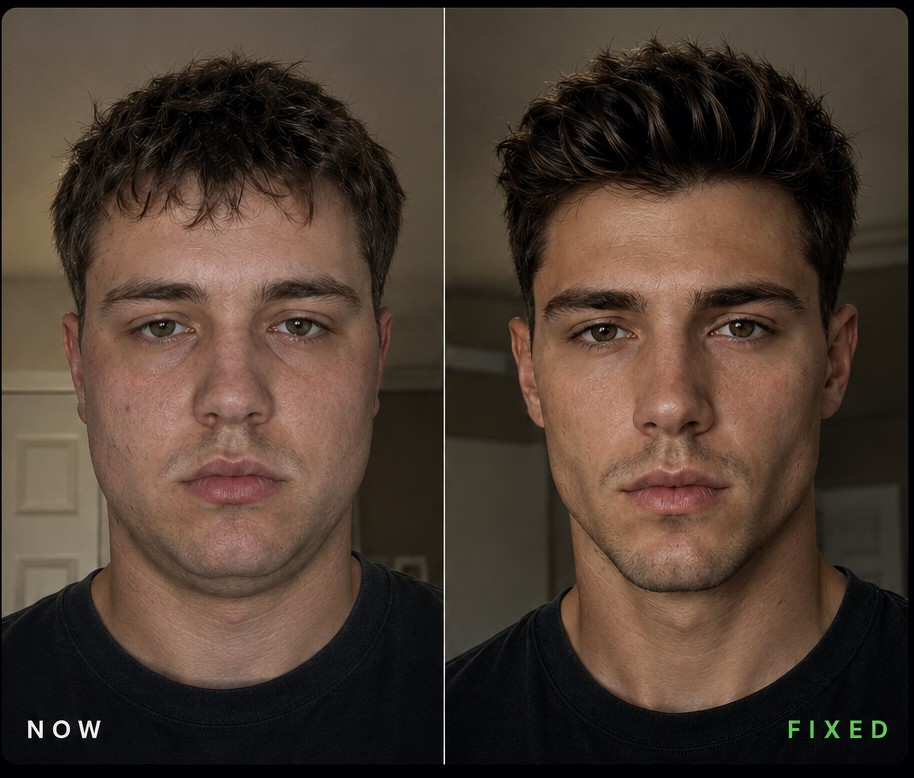
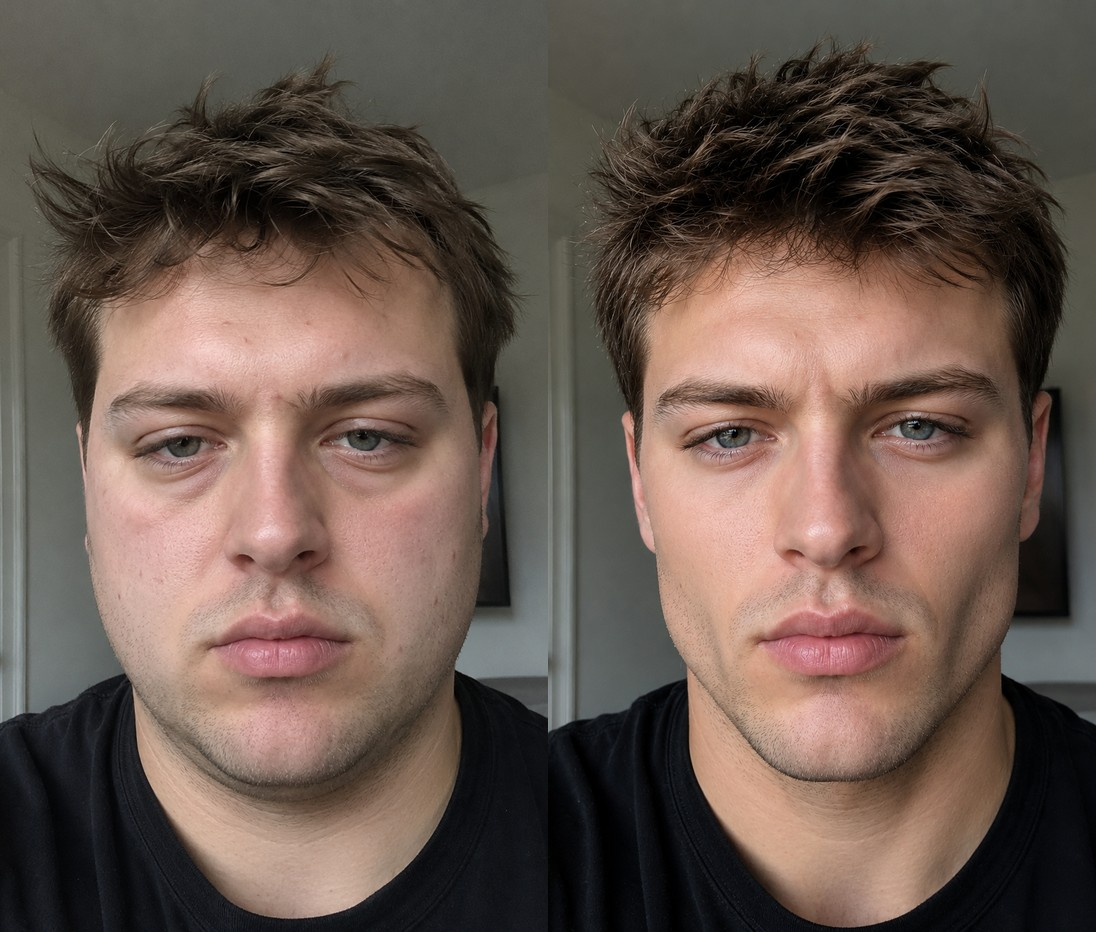
Real art drop 1: before/after pair, food plate, gua sha + wired heroes
Assets (processed from bro's originals, big + crisp):
- assets/marketing/before.jpg / after.jpg (1080x1440) — the bloated /
  drained faces. Light up the identity fork, fullscreen compare, and
  everywhere the pair is referenced.
- assets/marketing/beforeafter.jpg (1096x932) — composited split,
  bloated LEFT / drained RIGHT, seam dead-centre so the paywall hero's
  violet beam lands exactly on the transition. Also feeds the
  onboarding shock-stat card.
- assets/onboarding/welcome_food.jpg + welcome_routine.jpg (1080x1080).

Onboarding welcome carousel:
- _WelcomeSlide gains an optional hero widget that replaces the static
  image when set.
- Slide 1 hero = interactive BeforeAfterSlider starting at EXACTLY 50%
  (bro: "a slide that starts exactly half way") — drag to reveal the
  drained face. Sub-copy now invites the drag.
- Slide 2 hero = _FoodScanHero: the real plate with scanner callout
  lines pointing at cucumber / avocado / salmon, each with its sodium
  mg chip, glowing target dots, and a "PLATE SODIUM ~180 MG - LOW"
  verdict pill. New _CalloutLinePainter draws the lines.
- Slide 3 uses the real gua sha photo automatically (same filename).

assets/onboarding/README.md updated: received vs still-wanted
(welcome_scan bust, gender_male/female pngs).

Bump to 1.0.0+27 (kBuildTag v1.0.0+27).

Claude-Session: https://claude.ai/code/session_01C9EuYvg8RfgYGv5eTqCxGG

diff --git a/lib/screens/onboarding/funnel/onboarding_funnel_screen.dart b/lib/screens/onboarding/funnel/onboarding_funnel_screen.dart
@@ -141,10 +141,14 @@ class _OnboardingFunnelScreenState extends State<OnboardingFunnelScreen> {
         image: 'assets/onboarding/welcome_scan.jpg',
         headTop: 'Wake Up',
         headBottom: 'Less Puffy',
-        sub: 'Track puffiness. See real progress.',
+        sub: 'Drag the line. Same face — just drained.',
         cta: 'Continue',
         onBack: _back,
         onNext: _next,
+        // Bro: "put the first one in onboarding as a slide that starts
+        // exactly half way." Interactive before/after slider, divider
+        // opening at 50/50 — bloated left, drained right.
+        hero: const BeforeAfterSlider(aspectRatio: 4 / 5),
       ),
       _WelcomeSlide(
         index: here(),
@@ -158,6 +162,9 @@ class _OnboardingFunnelScreenState extends State<OnboardingFunnelScreen> {
         cta: 'Continue',
         onBack: _back,
         onNext: _next,
+        // The plate with scanner callouts — lines pointing at each food
+        // with its sodium read, verdict chip at the bottom.
+        hero: const _FoodScanHero(),
       ),
       _WelcomeSlide(
         index: here(),
@@ -308,6 +315,11 @@ class _WelcomeSlide extends StatelessWidget {
   final IconData icon;
   final String label, image, headTop, headBottom, sub, cta;
   final VoidCallback onBack, onNext;
+  /// Optional custom hero widget. When set it replaces the static
+  /// Image.asset + label chip entirely (the hero owns its own
+  /// overlays) — used for the interactive before/after slider on
+  /// slide 1 and the sodium-callout food scan on slide 2.
+  final Widget? hero;
   const _WelcomeSlide({
     required this.index,
     required this.showProgress,
@@ -320,6 +332,7 @@ class _WelcomeSlide extends StatelessWidget {
     required this.cta,
     required this.onBack,
     required this.onNext,
+    this.hero,
   });
 
   @override
@@ -363,7 +376,7 @@ class _WelcomeSlide extends StatelessWidget {
                     color: Onb.primary.withValues(alpha: 0.4), width: 1),
                   borderRadius: BorderRadius.circular(26),
                 ),
-                child: Stack(
+                child: hero ?? Stack(
                   fit: StackFit.expand,
                   children: [
                     Image.asset(image, fit: BoxFit.cover,
@@ -409,6 +422,142 @@ class _WelcomeSlide extends StatelessWidget {
       ),
     );
   }
+}
+
+/// The Food-Analysis hero — the real plate photo with scanner-style
+/// callout lines pointing at each food and its sodium read, plus a
+/// plate verdict chip at the bottom. Sells "we see the sodium before
+/// it puffs you up" in one glance.
+class _FoodScanHero extends StatelessWidget {
+  const _FoodScanHero();
+
+  // Chip anchor + food-dot positions as fractions of the hero box
+  // (tuned to the cover-cropped 4:5 view of welcome_food.jpg).
+  static const _callouts =
+      <({Offset chip, Offset dot, bool right, String label, String value})>[
+    (chip: Offset(0.05, 0.06), dot: Offset(0.25, 0.25), right: false,
+     label: 'CUCUMBER', value: '2 MG'),
+    (chip: Offset(0.95, 0.16), dot: Offset(0.82, 0.38), right: true,
+     label: 'AVOCADO', value: '7 MG'),
+    (chip: Offset(0.05, 0.62), dot: Offset(0.47, 0.50), right: false,
+     label: 'SALMON', value: '75 MG'),
+  ];
+
+  @override
+  Widget build(BuildContext context) {
+    return LayoutBuilder(builder: (context, c) {
+      final w = c.maxWidth, h = c.maxHeight;
+      return Stack(
+        fit: StackFit.expand,
+        children: [
+          Image.asset('assets/onboarding/welcome_food.jpg',
+            fit: BoxFit.cover,
+            errorBuilder: (_, __, ___) => const OnbImagePlaceholder(
+              icon: Icons.restaurant_rounded, caption: 'Food Analysis')),
+          // Slight darkening so the white callouts always read.
+          DecoratedBox(
+            decoration: BoxDecoration(
+              color: Colors.black.withValues(alpha: 0.12))),
+          CustomPaint(
+            painter: _CalloutLinePainter(lines: [
+              for (final k in _callouts)
+                (
+                  Offset(k.chip.dx * w + (k.right ? -6 : 6),
+                         k.chip.dy * h + 14),
+                  Offset(k.dot.dx * w, k.dot.dy * h),
+                ),
+            ]),
+          ),
+          for (final k in _callouts)
+            Positioned(
+              left:  k.right ? null : k.chip.dx * w,
+              right: k.right ? (1 - k.chip.dx) * w : null,
+              top:   k.chip.dy * h,
+              child: _chip(k.label, k.value),
+            ),
+          // Plate verdict.
+          Positioned(
+            left: 0, right: 0, bottom: 12,
+            child: Center(
+              child: Container(
+                padding: const EdgeInsets.symmetric(
+                    horizontal: 14, vertical: 8),
+                decoration: BoxDecoration(
+                  color: Colors.black.withValues(alpha: 0.72),
+                  borderRadius: BorderRadius.circular(100),
+                  border: Border.all(
+                    color: Onb.success.withValues(alpha: 0.6), width: 1),
+                ),
+                child: Row(
+                  mainAxisSize: MainAxisSize.min,
+                  children: [
+                    const Icon(Icons.water_drop_rounded,
+                      color: Onb.success, size: 14),
+                    const SizedBox(width: 6),
+                    Text('PLATE SODIUM ~180 MG · LOW',
+                      style: GoogleFonts.inter(
+                        color: Onb.success,
+                        fontSize: 11, letterSpacing: 1.1,
+                        fontWeight: FontWeight.w800)),
+                  ],
+                ),
+              ),
+            ),
+          ),
+        ],
+      );
+    });
+  }
+
+  Widget _chip(String label, String value) => Container(
+    padding: const EdgeInsets.symmetric(horizontal: 10, vertical: 6),
+    decoration: BoxDecoration(
+      color: Colors.black.withValues(alpha: 0.72),
+      borderRadius: BorderRadius.circular(9),
+      border: Border.all(
+        color: Colors.white.withValues(alpha: 0.22), width: 0.8),
+    ),
+    child: Row(
+      mainAxisSize: MainAxisSize.min,
+      children: [
+        Text(label,
+          style: GoogleFonts.inter(
+            color: Colors.white, fontSize: 10.5,
+            letterSpacing: 0.8, fontWeight: FontWeight.w800)),
+        const SizedBox(width: 6),
+        Text(value,
+          style: GoogleFonts.inter(
+            color: Onb.primaryLite, fontSize: 10.5,
+            letterSpacing: 0.6, fontWeight: FontWeight.w900)),
+      ],
+    ),
+  );
+}
+
+/// Thin scanner lines from each callout chip to a glowing dot on the
+/// food item it's reading.
+class _CalloutLinePainter extends CustomPainter {
+  final List<(Offset, Offset)> lines;
+  const _CalloutLinePainter({required this.lines});
+
+  @override
+  void paint(Canvas canvas, Size size) {
+    final line = Paint()
+      ..color = Colors.white.withValues(alpha: 0.85)
+      ..strokeWidth = 1.4
+      ..strokeCap = StrokeCap.round;
+    for (final (from, to) in lines) {
+      canvas.drawLine(from, to, line);
+      // Glowing target dot on the food.
+      canvas.drawCircle(to, 7, Paint()
+        ..color = Onb.primaryLite.withValues(alpha: 0.45)
+        ..maskFilter = const MaskFilter.blur(BlurStyle.normal, 4));
+      canvas.drawCircle(to, 3.2, Paint()..color = Colors.white);
+    }
+  }
+
+  @override
+  bool shouldRepaint(_CalloutLinePainter old) => old.lines != lines;
 }
 
 class _Dots extends StatelessWidget {

diff --git a/lib/config/dev_flags.dart b/lib/config/dev_flags.dart
@@ -59,4 +59,4 @@ const kBypassPaywall = true;
 /// tell which build is actually installed on-device (TestFlight lag has
 /// repeatedly made us debug a stale build). Bump this with every pubspec
 /// build-number bump.
-const kBuildTag = 'v1.0.0+26';
+const kBuildTag = 'v1.0.0+27';

diff --git a/assets/onboarding/README.md b/assets/onboarding/README.md
@@ -1,43 +1,34 @@
 # Onboarding funnel image assets
 
-Drop the generated images here with these **EXACT** filenames — the funnel
-references them by name. Until a file lands, that spot shows a clean,
-on-brand violet placeholder tile (a line-icon + "IMAGE COMING" caption),
-**not** an emoji. The moment you drop the real file in this folder it
-auto-bundles on the next build — no code or pubspec edit needed.
+Status after bro's first art drop (v1.0.0+27):
 
-## Welcome carousel — 3 images (4:5 portrait, ~1080×1350, .jpg)
-These are the first 3 hero screens. Full-bleed, dark violet-black mood so
-they blend into the funnel background.
+## ✅ RECEIVED — live in the app
+- `assets/marketing/before.jpg`      — bloated face (1080×1440)
+- `assets/marketing/after.jpg`       — drained face (1080×1440)
+- `assets/marketing/beforeafter.jpg` — composited split, bloated LEFT /
+                                       drained RIGHT, seam dead-centre
+                                       (paywall hero draws its violet
+                                       beam exactly there) (1096×932)
+- `welcome_food.jpg`                 — plate shot; onboarding overlays
+                                       the sodium callout lines + verdict
+                                       chip in code (1080×1080)
+- `welcome_routine.jpg`              — gua sha + roller (1080×1080)
 
-- **welcome_scan.jpg**    — marble Greek bust, 3/4 profile, glowing violet
-                            wireframe face-mesh with sparkle nodes. Sells
-                            "Face Scan".
-- **welcome_food.jpg**    — clean overhead meal shot (grilled salmon,
-                            greens, avocado — real food, appetising, bright
-                            against dark). Sells "Food Analysis".
-- **welcome_routine.jpg** — rose-quartz gua sha + jade face roller, water
-                            droplets, soft violet light. Sells "Daily
-                            Routines".
+Slide 1 of the welcome carousel no longer uses a static image — it's
+the interactive BeforeAfterSlider over before.jpg/after.jpg, divider
+starting at exactly 50%.
 
-## Gender select — 2 images (3:4 portrait, ~900×1200, .png)
-Shown side-by-side on the "who you are" screen. Ideally cut-out subjects
-fading to transparent at the base so they sit on the card cleanly.
+## 🔜 STILL WANTED (placeholders show until they land)
+- `welcome_scan.jpg`  — 4:5 (~1080×1350) .jpg — marble Greek bust, 3/4
+                        profile, glowing violet wireframe face-mesh.
+                        (Currently unused on slide 1 since the slider
+                        took over, but wired as its fallback and usable
+                        elsewhere.)
+- `gender_male.png`   — 3:4 (~900×1200) .png — male model, neutral top,
+                        calm studio, cut-out fading at base.
+- `gender_female.png` — 3:4 (~900×1200) .png — female model, same
+                        treatment.
 
-- **gender_male.png**     — male model, neutral top, calm studio light.
-- **gender_female.png**   — female model, neutral top, calm studio light.
-
-## Also used by onboarding (already referenced elsewhere)
-The shock-stat + identity-fork screens reuse the marketing before/after art
-from `assets/marketing/`:
-
-- **assets/marketing/beforeafter.jpg** — single combined bloated→debloated
-                            image, split baked in (~914×778). Also the
-                            paywall hero.
-- **assets/marketing/before.jpg**      — bloated face, 3:4 portrait.
-- **assets/marketing/after.jpg**       — same face debloated, 3:4 portrait.
-
----
-**Nothing here blocks the build.** Every reference has a placeholder
-fallback, so you can ship or TestFlight without these and drop the real art
-in whenever it's ready.
+Drop files into this folder (or assets/marketing/ for the pair) with
+these EXACT names — they auto-bundle on the next build, no code edit.
+Nothing here blocks a build; every slot has a clean violet placeholder.